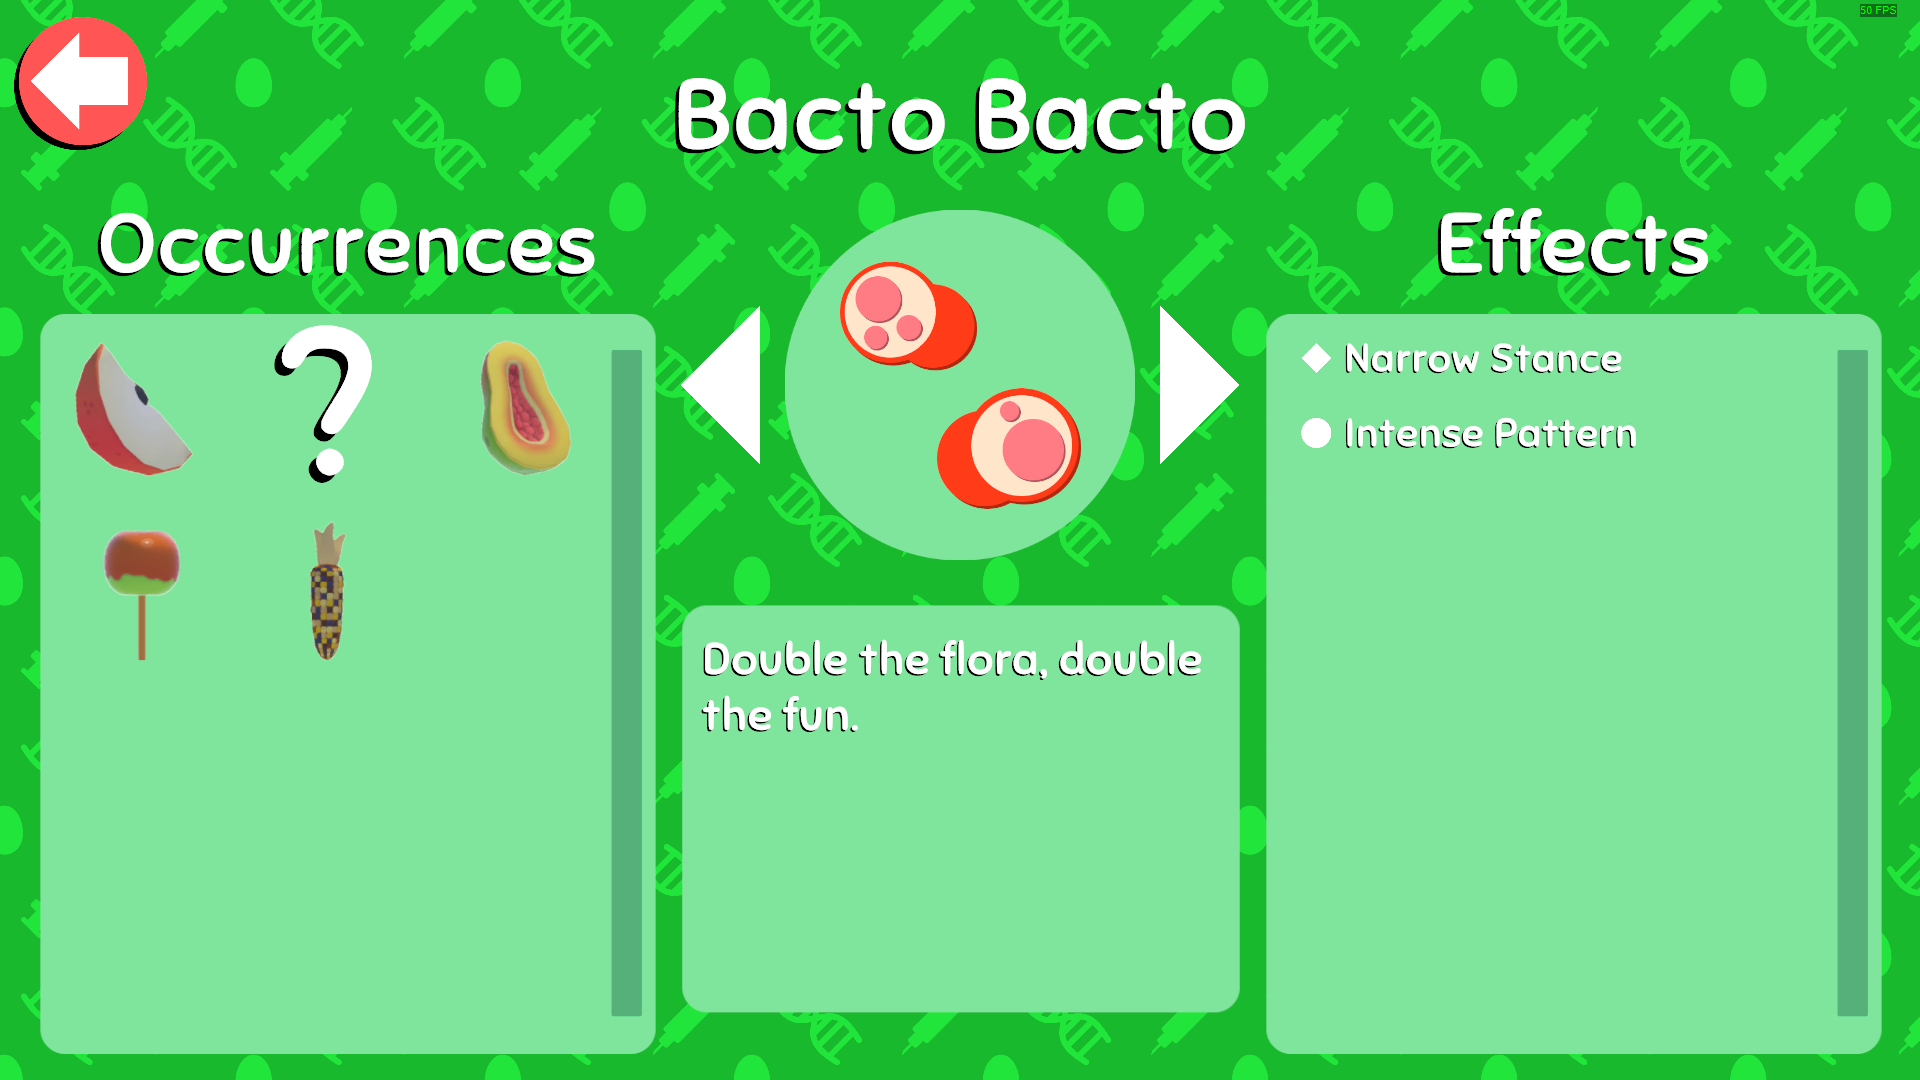
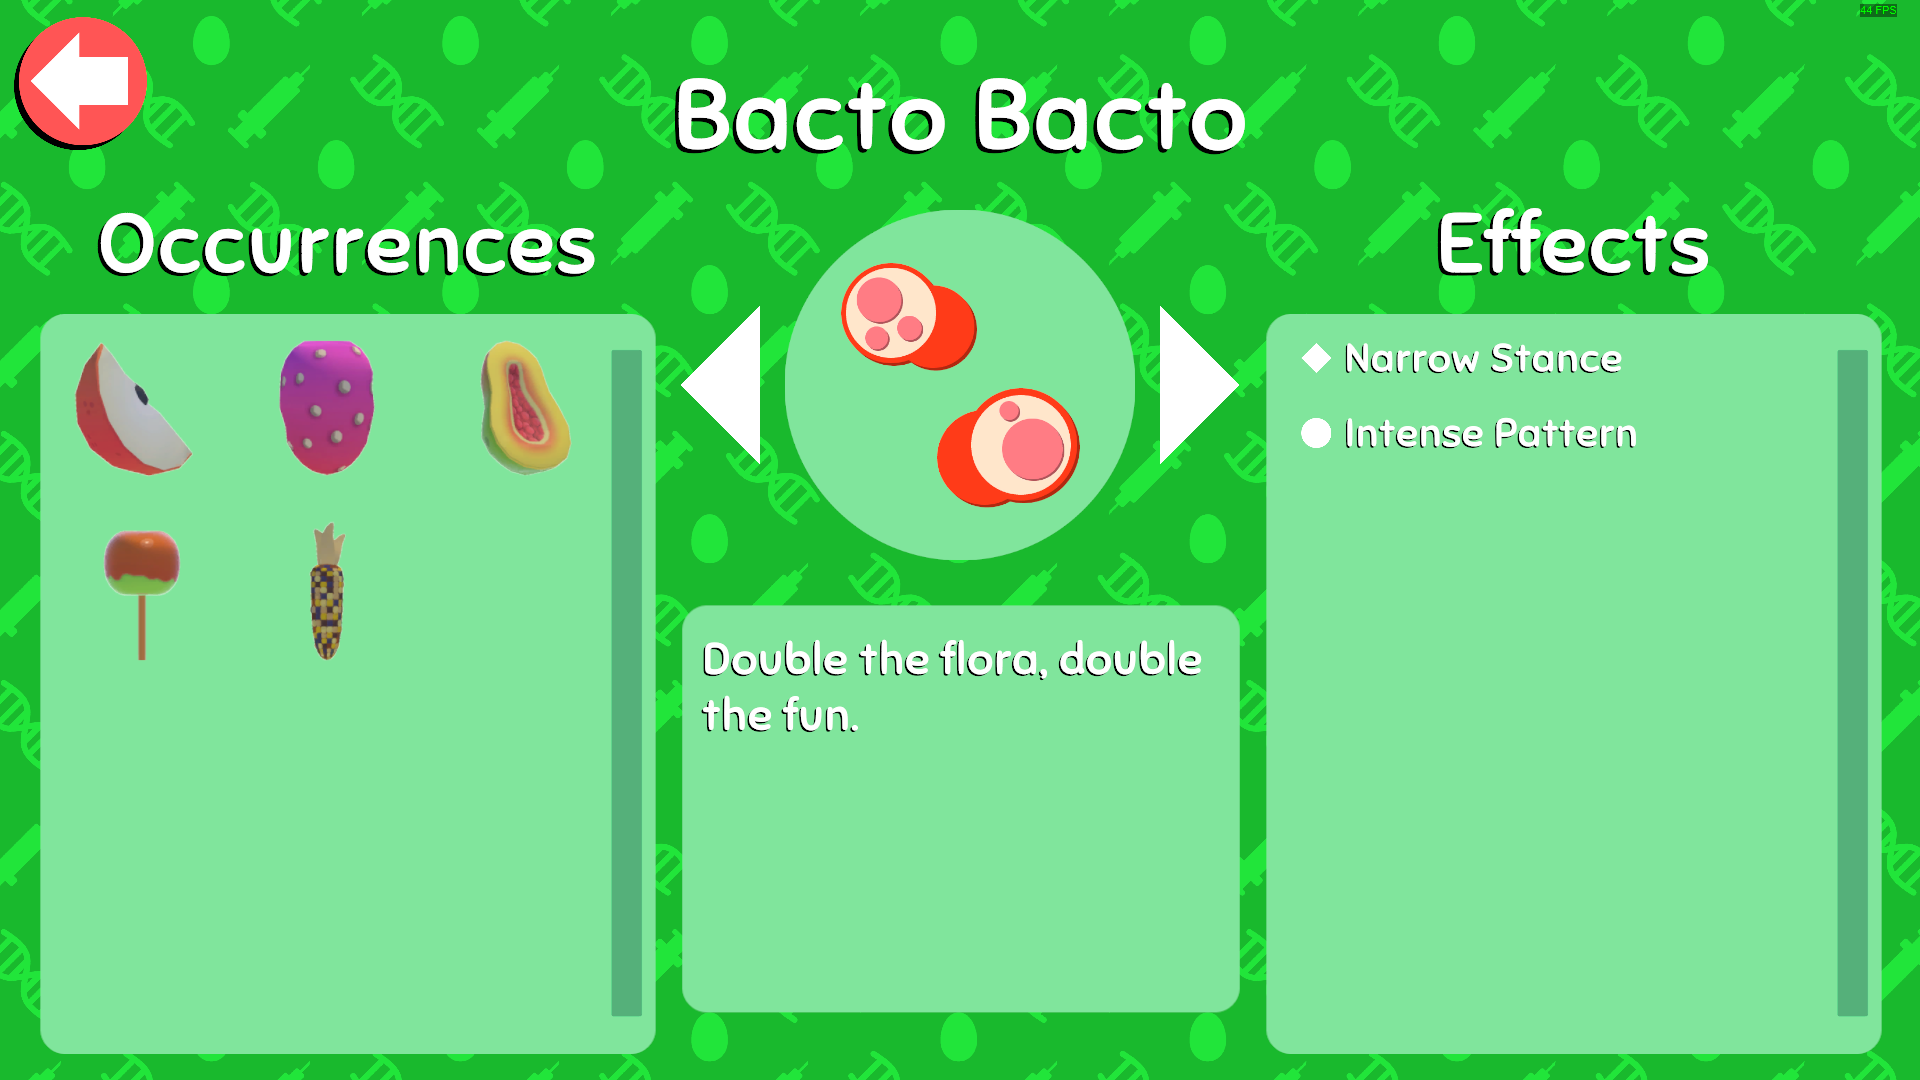
added periculli

diff --git a/src/flora.ts b/src/flora.ts
@@ -198,7 +198,7 @@ export const ectobacter: Flora = {
 export const ectoplasmoid: Flora = {
   name: "Ectoplasmoid",
   image: "flora_1_9",
-  description: "No data available.",
+  description: "An intimidating flora from beyond the pale.",
   foods: [food.ectoplasm],
   effects: [effect.blackBody, effect.whiteLegs, effect.randomMutations],
   rarities: [circle, circle, diamond],
@@ -228,17 +228,17 @@ export const feruli: Flora = {
   rarities: [circle, circle, circle, circle, circle],
 };
 
-export const flora22: Flora = {
-  name: "??????",
+export const fructo: Flora = {
+  name: "Fructo",
   image: "flora_2_2",
-  description: "No data available.",
-  foods: [food.unknown],
+  description: "Sweet, sharp, and craveable.",
+  foods: [food.cactusFruit],
   effects: [
-    effect.unknown,
-    effect.unknown,
-    effect.unknown,
-    effect.unknown,
-    effect.unknown,
+    effect.bigHorns,
+    effect.bigWings,
+    effect.bigNose,
+    effect.bigTail,
+    effect.longEars,
   ],
   rarities: [circle, triangle, triangle, circle, triangle],
 };
@@ -246,7 +246,7 @@ export const flora22: Flora = {
 export const frumentium: Flora = {
   name: "Frumentium",
   image: "flora_2_3",
-  description: "No data available.",
+  description: "A powerful flora with an unusually polarizing visage.",
   foods: [food.candyCorn],
   effects: [effect.longSnout, effect.whiteNoseEars, effect.yellowLegs],
   rarities: [circle, circle, circle],
@@ -334,12 +334,12 @@ export const perdictusColi: Flora = {
   rarities: [],
 };
 
-export const flora33: Flora = {
-  name: "?????????",
+export const periculli: Flora = {
+  name: "Periculli",
   image: "flora_3_3",
-  description: "No data available.",
-  foods: [food.unknown],
-  effects: [effect.unknown, effect.unknown, effect.unknown],
+  description: "Off-putting, and irresistible in equal measure.",
+  foods: [food.insulationTuft],
+  effects: [effect.pinkHead, effect.small, effect.longSnout],
   rarities: [circle, triangle, circle],
 };
 
@@ -507,7 +507,7 @@ export const floras: Flora[] = [
   ectoplasmoid,
   enteria,
   feruli,
-  flora22,
+  fructo,
   frumentium,
   latallius,
   luciumColi,
@@ -518,7 +518,7 @@ export const floras: Flora[] = [
   nasusEnterica,
   peptocoli,
   perdictusColi,
-  flora33,
+  periculli,
   phenobacti,
   phriole,
   planumMirabilis,

diff --git a/src/effect.ts b/src/effect.ts
@@ -71,6 +71,7 @@ export const bigWings: Effect = { name: "Big Wings" };
 export const desaturatedColors: Effect = { name: "Desaturated Colors" };
 export const tallBody: Effect = { name: "Tall Body" };
 export const matteFinish: Effect = { name: "Matte Finish" };
+export const pinkColoration: Effect = { name: "Pink Coloration" };
 
 export const effects: Effect[] = [
   unknown,
@@ -139,4 +140,5 @@ export const effects: Effect[] = [
   darkGreenPattern,
   tallBody,
   matteFinish,
+  pinkColoration,
 ];

diff --git a/src/food.ts b/src/food.ts
@@ -41,6 +41,10 @@ export const burrito: Food = {
   name: "Burrito",
   image: "burrito",
 };
+export const cactusFruit: Food = {
+  name: "Cactus Fruit",
+  image: "cactus-fruit",
+};
 export const candiedApple: Food = {
   name: "Candied Apple",
   image: "candied-apple",
@@ -271,6 +275,7 @@ export const foods: Food[] = [
   boxOfRaisins,
   burnedDogBiscuit,
   burrito,
+  cactusFruit,
   candiedApple,
   candyCane,
   candyCorn,

diff --git a/src/images.py b/src/images.py
@@ -86,6 +86,7 @@ def crop_grid_from_folder(source_folder, output_folder, low_variance_output_fold
         "flora-0-1-food-0-0": "candy-corn",
         "flora-0-1-food-0-1": "mini-pumpkin",
         "flora-0-3-food-0-0": "apple-slice",
+        "flora-0-3-food-0-1": "cactus-fruit",
         "flora-0-3-food-0-2": "cut-fruit",
         "flora-0-3-food-1-0": "candied-apple",
         "flora-0-3-food-1-1": "decorative-corn",
@@ -187,7 +188,7 @@ def crop_grid_from_folder(source_folder, output_folder, low_variance_output_fold
                     new_filename = f"{food_name}.png"
                     
 
-                    if variance_str < 10 or (2200 < variance_str < 2450):
+                    if variance_str < 10 or (2275 < variance_str < 2450):
                         low_var_path = os.path.join(low_variance_output_folder, filename)
                         crop.save(low_var_path)
                     else:
